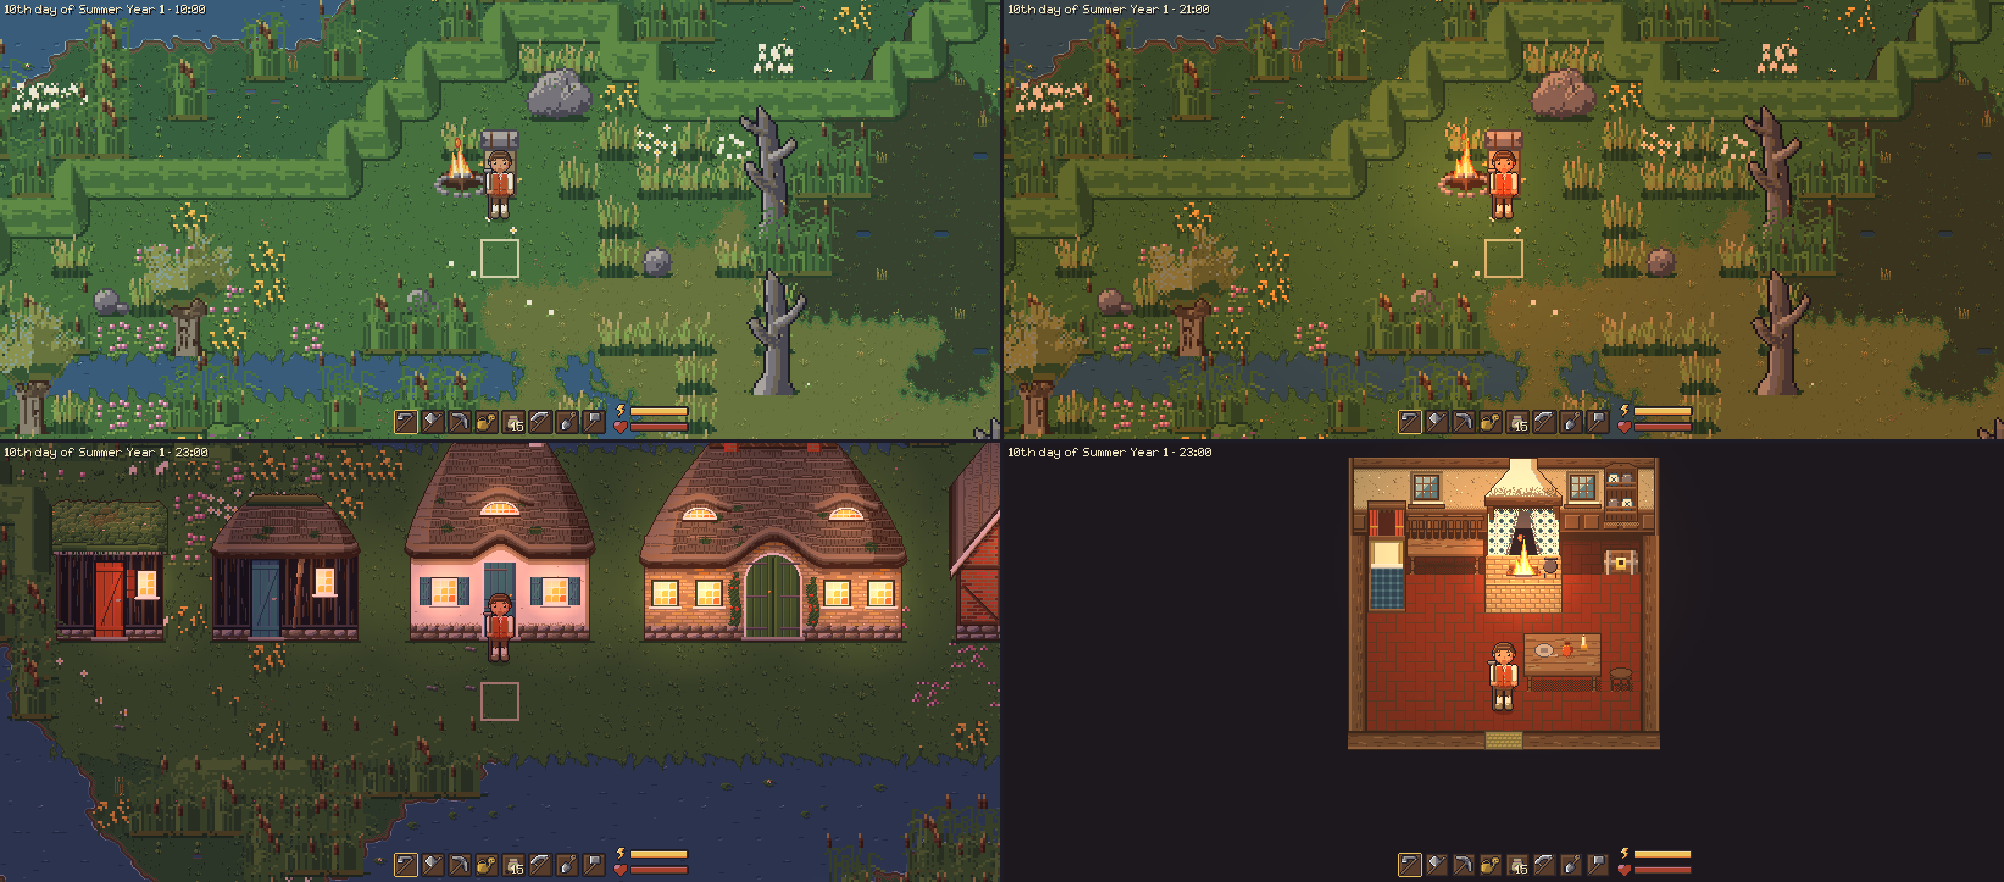
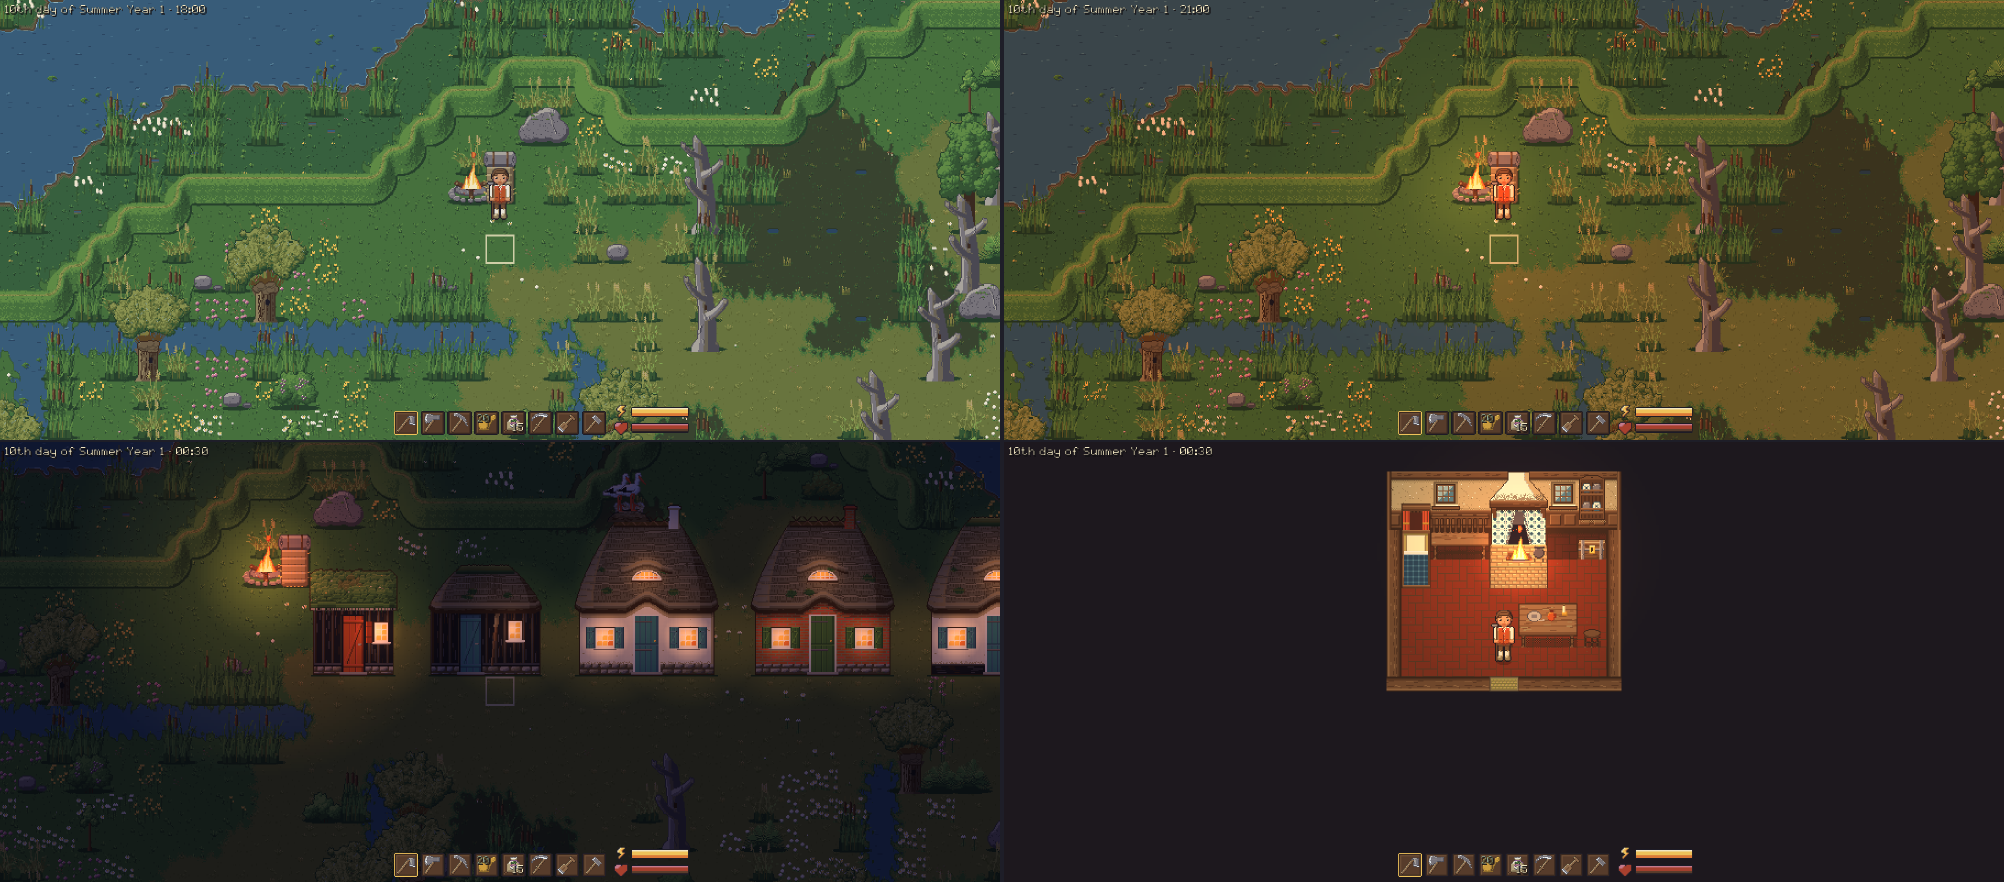
README: the darker night and the lantern
A note on the dark night and its data file, and how to get, light and
carry the lantern, with a picture of the night without a light, with
the lantern, by the campfire and in the classic art. The day and night
picture is retaken: its houses at night are now after midnight in the
darker night.

diff --git a/README.md b/README.md
@@ -132,11 +132,19 @@ splashes on the ground; lily pads drift and bob.
 ### Day, night and light
 
 The days follow a Nordic year: about 16 hours of daylight in midsummer and 8 in
-midwinter, with dawn and dusk following sunrise and sunset. When it gets dark, the
-campfire, the hearth and the lit windows glow, and clouds dim the daylight. A setting
-lets you shrink or switch off the change in day length.
+midwinter, with dawn and dusk following sunrise and sunset. The night is dark: away from a
+light you see little more than shapes. When it gets dark, the campfire, the hearth and the lit
+windows glow, and clouds dim the daylight. A setting lets you shrink or switch off the change in
+day length. How dark the night gets and when dusk and dawn come is in
+[data/lighting.cfg](data/lighting.cfg).
 
-![Morning, dusk at the camp, a house at night and the interior by the hearth](docs/screenshots/day-and-night.png)
+![Evening and dusk at the camp, houses after midnight and the interior by the hearth](docs/screenshots/day-and-night.png)
+
+To see in the dark, carry a lantern (for now from the console: `give lantern`). Select it and
+press the use key (space) to light it or put it out; lit, it casts a warm, flickering circle of
+light around you while you hold it. It needs no fuel.
+
+![At night without a light, with the lantern lit, with the lantern by the campfire, and lit in the classic art](docs/screenshots/lantern.png)
 
 ### Farming
 
